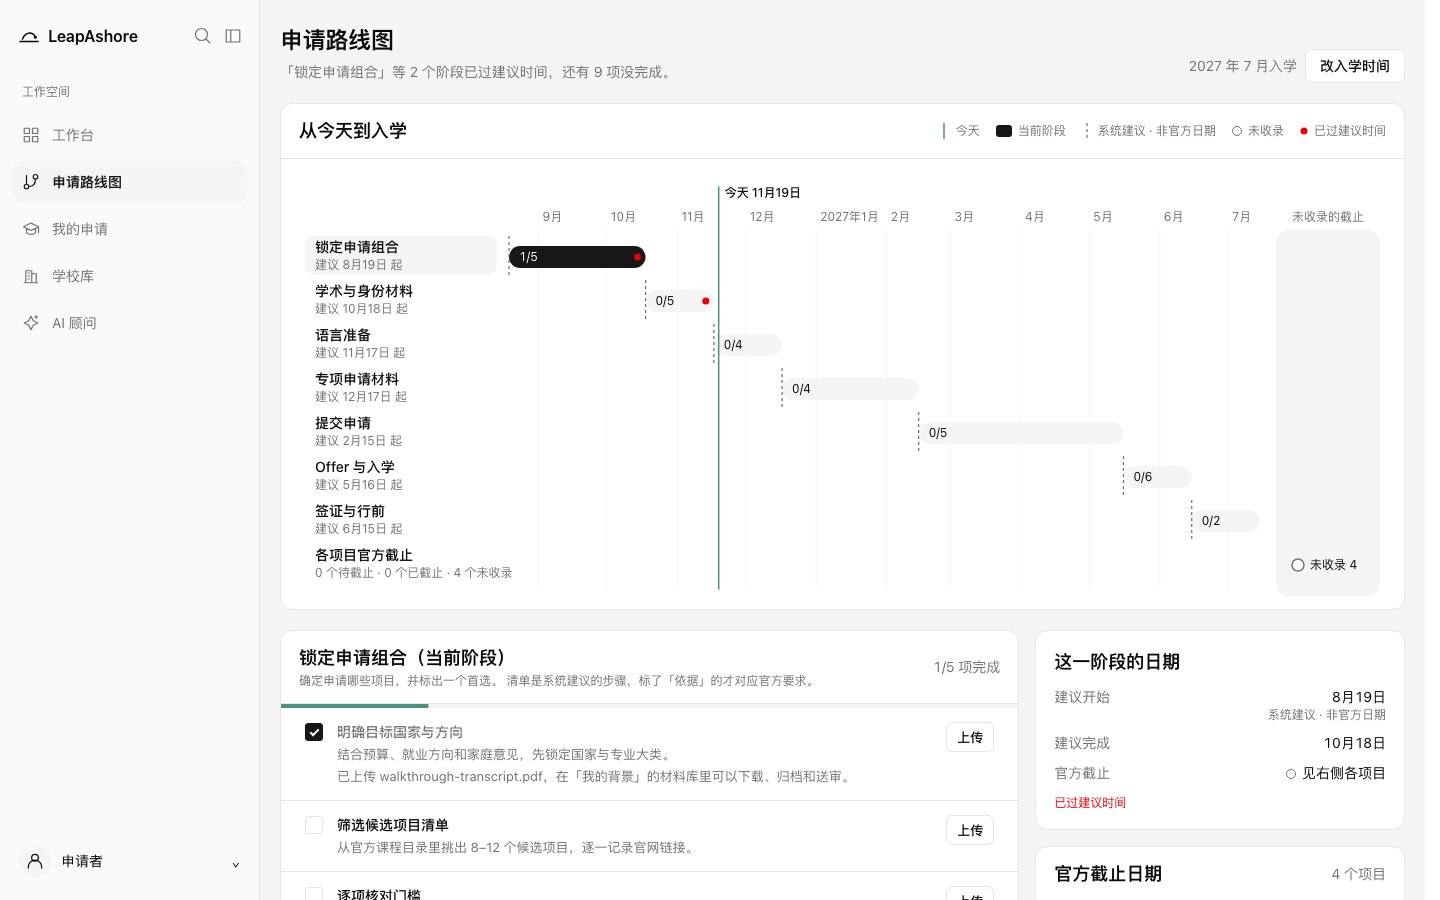
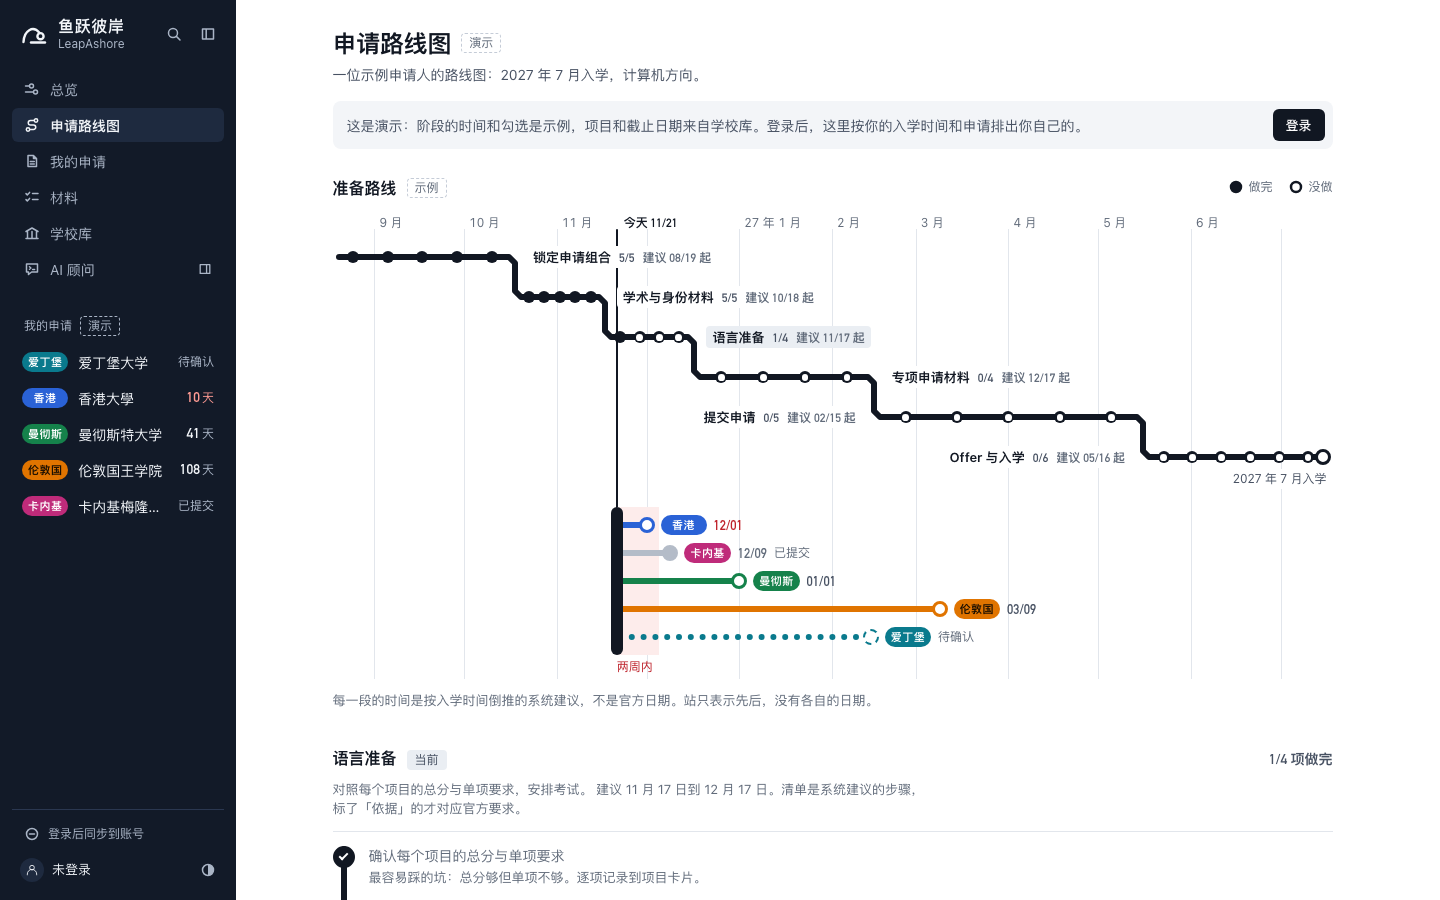
feat(web): demo programs that share materials; README screenshots of the rebuilt pages (#113)
The signed-out demo now leads with CMU (MCDS), Manchester (AI MSc), King's (AI MSc) and
Edinburgh (Computer Science MSc). All four list a transcript and a language score, so the
materials map draws two interchanges; Glasgow, which lists both too, is next for when a date
passes. Imperial, NUS and UCL leave the list: each lacks at least one of the two, and the
overview's due-soon pick would bring one onto the map two weeks before its deadline. Programs
and dates still come only from the catalogue.

README: overview, advisor dock, roadmap, materials and the overview on a phone, taken on
2026-11-21 from the live site while signed out. Old screenshots of pages that still use the
earlier design are removed rather than shown as current (#109). No new numbers.

diff --git a/web/lib/demo.ts b/web/lib/demo.ts
@@ -19,25 +19,35 @@ import { SOON_DAYS, daysUntil } from "./overview.ts";
  * Well-known computing programs, most preferred first, by their catalogue id.
  *
  * An id that the catalogue no longer has is skipped; one whose deadlines have all passed is left out
- * until new ones are collected. The first five are what the demo shows while each has a date ahead
- * (the fifth has no collected date and is drawn as unknown); the rest take over as dates pass.
+ * until new ones are collected; the rest take over as dates pass.
+ *
+ * The order is chosen for the materials map, which draws the overview's programs that have collected
+ * materials (lib/materials-map.ts) and makes a material every one of them asks for an interchange.
+ * The first four (CMU, Manchester, King's and Edinburgh; Edinburgh has no collected date and is the
+ * overview's unknown line) all list a transcript and a language score, and so does Glasgow, which
+ * joins once a date passes. The programs after it have no collected materials, so they are never on
+ * the map. Imperial, NUS and UCL were on this list until 2026-11-21 and are left off on purpose: each
+ * lacks at least one of the two, and the overview's due-soon pick reaches anywhere in the list, so any of them
+ * would take the interchanges away for two weeks before its deadline. A new extraction for a program
+ * here can change all this; check the signed-out /materials after one.
  */
 export const DEMO_PROGRAM_IDS: readonly string[] = [
-  "university-of-hong-kong-master-of-data-science-e60565",
-  "imperial-college-london-msc-computing-f38aa7",
-  "national-university-of-s-master-of-computing-computer-sci-96b220",
-  "ucl-computer-science-msc-9d29ee",
-  "university-of-edinburgh-computer-science-msc-b52f8b",
-  "hong-kong-university-of-master-of-science-program-in-inf-529f49",
-  "university-of-glasgow-computing-science-msc-03844f",
-  "chinese-university-of-ho-msc-in-computer-science-402b13",
   "carnegie-mellon-universi-master-of-computational-data-sci-d9f649",
   "university-of-manchester-artificial-intelligence-msc-404945",
   "king-s-college-london-artificial-intelligence-msc-f8d855",
+  "university-of-edinburgh-computer-science-msc-b52f8b",
+  "university-of-glasgow-computing-science-msc-03844f",
+  "university-of-hong-kong-master-of-data-science-e60565",
+  "hong-kong-university-of-master-of-science-program-in-inf-529f49",
+  "chinese-university-of-ho-msc-in-computer-science-402b13",
   "cricos-111671D",
 ];
 
-/** The schools of the list above. Their other computing programs fill in when the list comes up short. */
+/**
+ * The schools whose other computing programs fill in when the list comes up short: those of the list
+ * (not Sydney, whose CRICOS programs are a different source) and Imperial, NUS and UCL, whose programs
+ * the list once led with.
+ */
 export const DEMO_SCHOOL_IDS: readonly string[] = [
   "university-of-hong-kong",
   "imperial-college-london",

diff --git a/README.md b/README.md
@@ -8,7 +8,7 @@
 [![License: MIT](https://img.shields.io/badge/license-MIT-blue.svg)](LICENSE)
 [![Live site](https://img.shields.io/badge/live-leapashore.mortyyjt.site-2f6f4f.svg)](https://leapashore.mortyyjt.site)
 
-![Application workspace: upcoming deadlines, dates to confirm and preparation tasks](docs/images/home.png)
+![Deadline overview: each application is a coloured line from today to its deadline, with a dashed line for a date still to confirm (signed-out demo)](docs/images/home.png)
 
 **Live site:** <https://leapashore.mortyyjt.site> (the interface is in Chinese; it is built for applicants from mainland China).
 
@@ -31,37 +31,33 @@ Start by adding an application or saving a program from the school library. Reco
 
 ## What it does
 
-- **Personal workspace.** An actionable home shows active applications ordered by deadline, a separate group for dates still to confirm, and preparation tasks with a live completion count and progress bar. New users can add an application directly from the workspace.
+- **Deadline overview.** Each application is a coloured line from today to its deadline, with its status and whether its materials are ready; a date still to confirm is a dashed line, and deadlines coming up soon are marked. Below, a short list says what each application is waiting for. New users can add an application directly from the overview.
 - **My applications.** Saved school selections appear automatically. Add projects outside the library manually; edit the chosen round, deadline, source link, application status, self-reported material readiness and preparation notes. Human date confirmation is explicit and becomes stale when the date, source or round changes.
-- **Materials.** Keep versions and review states in the existing document library. A project's “materials ready” flag is an applicant's self-check, not an automated review result.
+- **Materials line map.** For each application whose program page has been read, the materials it asks for are stations on its line; a material every program asks for is an interchange, and a line that asks for it differently is marked there. Each requirement links to the sentence and page it was taken from, and the checklist below is ticked by the applicant: a self-check, not an automated review. A program whose page lists no materials is drawn dashed and labelled so, which the page says is not the same as asking for none. The document library with versions stays at the bottom of the page.
 - **School library.** 287 universities in 29 countries and regions, ordered by QS 2027 rank. Each school page lists its collected taught master's programs, filterable by name and study area; each program page shows only the requirements that were found (mark thresholds, English, academic background, deadlines), each linked to the official page it came from.
 - **Requirement tiers.** An applicant enters four facts (undergraduate school, average mark, English score, target field). Every program with a stated requirement in that field is placed in a tier by how many published requirements the background meets, with the items still to confirm on the official page. Tiers describe requirements met, not admission odds.
 - **Portfolio.** The chosen programs with a tier, an application status, the official deadline and one first choice.
-- **Application roadmap.** A timeline from today to the intake, with phases, material checklists and file uploads. Suggested dates are drawn as system suggestions; official deadlines appear only when collected from an official page, and a past one is labelled as closed instead of being drawn as a future date.
-- **Cited advisor agent.** A LangGraph agent that answers requirement questions from the catalogue, and questions about tuition, references and interviews from saved page snapshots, citing the official page. It refuses when the evidence is weak, can update the applicant's profile, and proposes portfolio changes for the applicant to confirm. Replies stream as they arrive, users can stop generation, and scrolling up preserves their reading position.
+- **Application roadmap.** Preparation is one line stepping through phases toward the intake, with a station per task, filled when done; each application's line runs from today to its deadline. Phase dates are labelled as system suggestions; deadlines come from the application records (collected from an official page or entered by the applicant), and a past one is listed as closed instead of being drawn as a future date.
+- **Cited advisor agent.** A LangGraph agent that answers requirement questions from the catalogue, and questions about tuition, references and interviews from saved page snapshots, citing the official page. It refuses when the evidence is weak, can update the applicant's profile, and proposes changes to applications and the portfolio on a card the applicant confirms before anything is written. It sits in a dock beside every page, shows its steps as it works, and can be stopped.
 
 ### See the workspace
 
-| My applications | Application roadmap |
-| --- | --- |
-| ![Application list with rounds, personal deadline checks and preparation notes](docs/images/applications.png) | ![Application roadmap with phase navigation, task checklist and completion progress](docs/images/roadmap.png) |
+Taken on 2026-11-21 from the live site while signed out. A signed-out visitor sees a labelled demo: the programs, deadlines and material requirements come from the school library as served; the statuses and ticks are examples.
 
-| School library | Application portfolio |
+| Advisor dock | Application roadmap |
 | --- | --- |
-| ![Searchable school library with region and QS rank filters](docs/images/schools.png) | ![Selected programs grouped by tier with application status and deadlines](docs/images/portfolio.png) |
+| ![The advisor dock beside the overview, with a question about a deadline placed in its input; asking needs sign-in](docs/images/advisor.png) | ![Application roadmap: preparation phases as one stepped line with a station per task, and each application's line to its deadline](docs/images/roadmap.png) |
+
+![Materials line map: four programs share the transcript and the language score as interchanges; each line's other materials are its own stations](docs/images/materials.png)
 
 <details>
-<summary>Mobile, program details and requirement tiers</summary>
+<summary>On a phone</summary>
 
-![Dashboard with upcoming deadlines and preparation progress on a phone](docs/images/home-mobile.png)
-
-| School page | Program page | Requirement tiers |
-| --- | --- | --- |
-| ![University page with its collected programs and program filters](docs/images/school.png) | ![Program details with admission requirements and source links](docs/images/program.png) | ![Programs grouped by published requirements met](docs/images/tiers.png) |
+<img src="docs/images/home-mobile.png" width="390" alt="The deadline overview on a phone, one application per row with its line to the deadline">
 
 </details>
 
-Screenshots show the current production build running locally. Personal pages use a demonstration account. Sample application names and dates illustrate the workflow.
+The other pages (my applications, requirement tiers, portfolio, school library, school and program pages, profile) still use the earlier design and have no screenshot here until they are rebuilt ([#109](https://github.com/MortyYJT/LeapAshore/issues/109)).
 
 ### Interaction details
 
